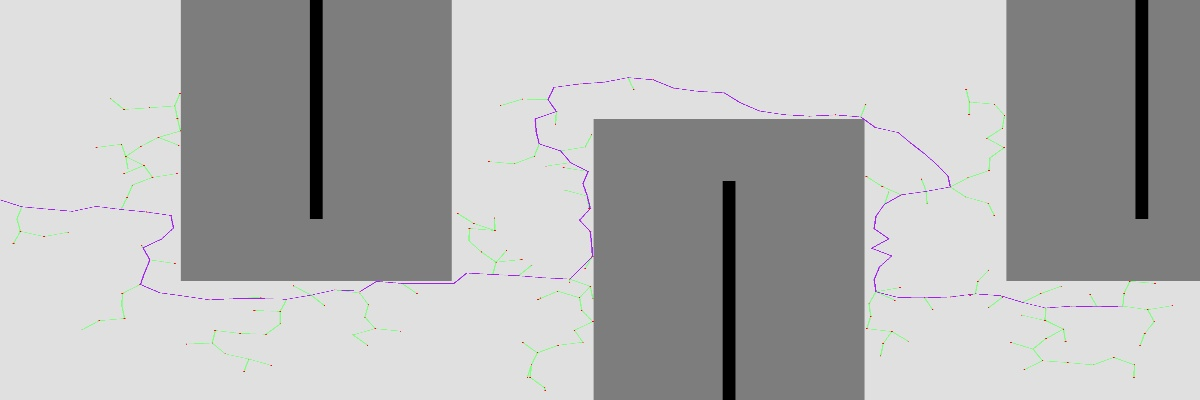
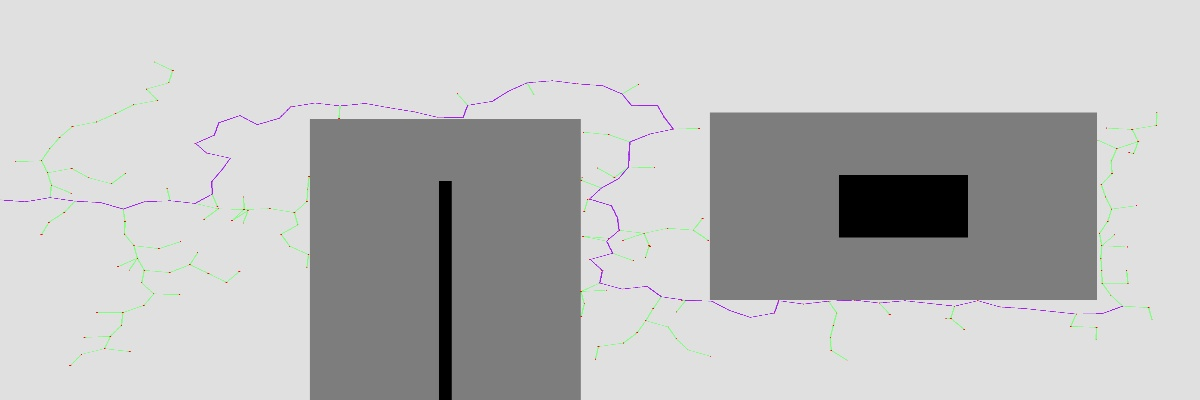
New map

diff --git a/RRT_Application/planner_indoor_fn.py b/RRT_Application/planner_indoor_fn.py
@@ -153,10 +153,9 @@ def runPlanner(step_size):
     width = 93 * scale
 
     obstacle_bounding_boxes = [
-        [(24, height), (24, 29), (25, 29), (25, height)],
-        [(88, height), (88, 29), (89, 29), (89, height)],
-        [(56, 35), (56, 0), (57, 0), (57, 35)],
-        ]
+    [(65, 36), (65, 26), (75, 26), (75, 36)],
+    [(34, 35), (34, 0), (35, 0), (35, 35)],
+    ]
 
     step_size = int(step_size * scale) # 15
 
